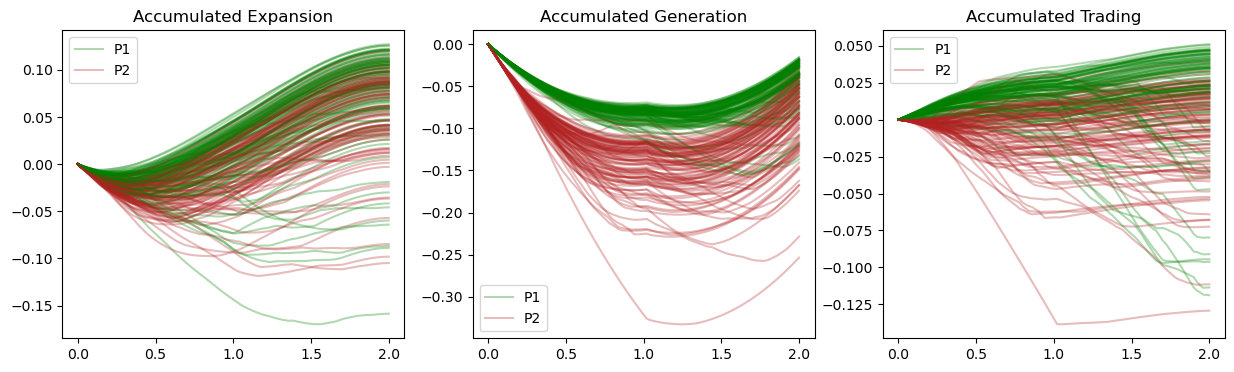
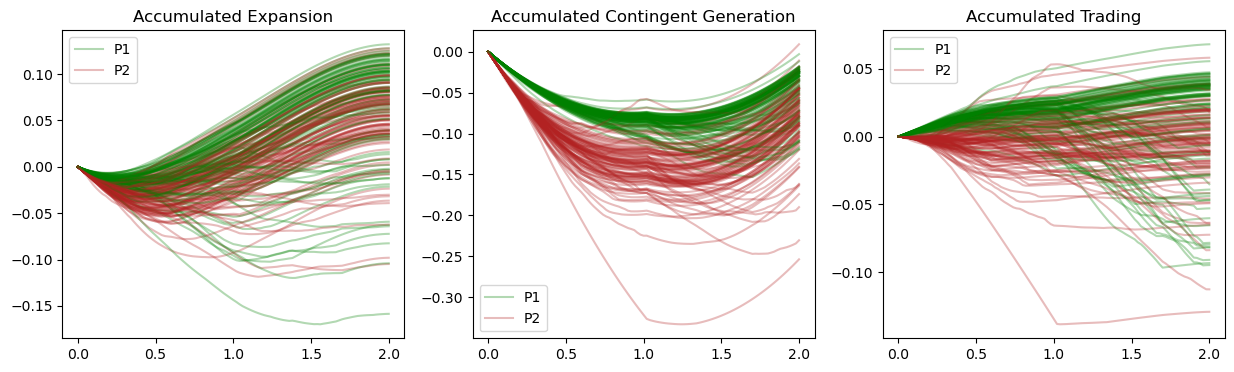
revised the utils.plot for invPenalty(JointOptim).

diff --git a/InvPenalty-MultiP/Joint_Optim_2Prdx1/utils.py b/InvPenalty-MultiP/Joint_Optim_2Prdx1/utils.py
@@ -615,69 +615,58 @@ class plot_results():
         if self.savefigs and self.to_path:
             plt.savefig(self.to_path.joinpath("Forward_Loss.png"),bbox_inches='tight')
 
-    def Inventory_And_Price(self,Histogram=True): #,single_sample=False):
-        plt.figure(figsize=(14,6))
-        plt.subplot(121)
+    def Inventory_And_Price(self, hline=False, Histogram=True): #,single_sample=False):
+        plt.figure(figsize=(6,6))
+        plt.subplot()
         plt.title("$Inventory(X_t)$")
         for i in range(self.number_of_paths):
           ax1=plt.plot(self.t[:self.NT1+1],self.pop1_plot['inventory'][i][:self.NT1+1], self.t[self.NT1+1:],self.pop1_plot['inventory'][i][self.NT1+1:],color="green", alpha=0.3)
           ax2=plt.plot(self.t[:self.NT1+1],self.pop2_plot['inventory'][i][:self.NT1+1], self.t[self.NT1+1:],self.pop2_plot['inventory'][i][self.NT1+1:],color="firebrick", alpha=0.3)
         plt.legend({'P1':ax1,'P2':ax2})
+        if hline==True:
+          plt.axhline(y=self.K, color='black', linestyle='--', label='Quota')
+        if self.savefigs and self.to_path:
+           plt.savefig(self.to_path.joinpath("Inventory.png"),bbox_inches='tight')
+        
 
-        plt.subplot(122)
+        plt.figure(figsize=(6,6))
+        plt.subplot()
         plt.title("$Price(S_t)$")
         plt.plot(self.t, self.pop1_plot['price'],color='darkgrey')
         # plt.ylim(-0.1,1.5)
         if self.savefigs and self.to_path:
-           plt.savefig(self.to_path.joinpath("Inventory-Price.png"),bbox_inches='tight')
+           plt.savefig(self.to_path.joinpath("Price.png"),bbox_inches='tight')
 
         if Histogram==True:
           x1_t1=self.pop1_path_dict['inventory'][:,self.NT1]
           x2_t1=self.pop2_path_dict['inventory'][:,self.NT1]
           x1_t2=self.pop1_path_dict['inventory'][:,self.NT2]
           x2_t2=self.pop2_path_dict['inventory'][:,self.NT2]
-          ## -------------------------------- Population 1 -------------------------------- ##
+          ## -------------------------------- Terminal Distribution -------------------------------- ##
           plt.figure(figsize=(12,5))
-          plt.suptitle("Inventory @ Delivery - P1")
+          plt.suptitle("Inventory @ Delivery")
 
           plt.subplot(121)
-          plt.title("Distribution of $X_{T_1}^{(1)}$")
-          sns.histplot(data=x1_t1, bins=100,stat='count',alpha=0.6,color= 'green')
+          plt.title("Distribution of $X_{T_1}$")
+          sns.histplot(data=x1_t1, bins=100,stat='count',alpha=0.3,color= 'green')
           sns.kdeplot(x1_t1, color="green",label='P1')
-          plt.xlabel("$X_{T_1}^{(1)}$")
-          plt.ylabel("Count")
-          plt.legend()
-
-          plt.subplot(122)
-          plt.title("Distribution of $X_{T_2}^{(1)}$")
-          sns.histplot(data=x1_t2, bins=100,stat='count',alpha=0.6,color= 'green')
-          sns.kdeplot(x1_t2, color="green",label='P1')
-          plt.xlabel("$X_{T_2}^{(1)}$")
-          plt.ylabel("Count")
-          plt.legend()
-          if self.savefigs and self.to_path:
-            plt.savefig(self.to_path.joinpath("Inventory-Distribution-pop1.png"),bbox_inches='tight')
-          ## -------------------------------- Population 2 -------------------------------- ##
-          plt.figure(figsize=(12,5))
-          plt.suptitle("Inventory @ Delivery - P2")
-
-          plt.subplot(121)
-          plt.title("Distribution of $X_{T_1}^{(2)}$")
-          sns.histplot(data=x2_t1, bins=100,stat='count',alpha=0.6,color= 'firebrick')
+          sns.histplot(data=x2_t1, bins=100,stat='count',alpha=0.2,color= 'firebrick')
           sns.kdeplot(x2_t1, color="firebrick",label='P2')
-          plt.xlabel("$X_{T_1}^{(2)}$")
+          plt.xlabel("$X_{T_1}$")
           plt.ylabel("Count")
           plt.legend()
 
           plt.subplot(122)
-          plt.title("Distribution of $X_{T_2}^{(2)}$")
-          sns.histplot(data=x2_t2, bins=100,stat='count',alpha=0.6,color= 'firebrick')
+          plt.title("Distribution of $X_{T_2}$")
+          sns.histplot(data=x1_t2, bins=100,stat='count',alpha=0.3,color= 'green')
+          sns.kdeplot(x1_t2, color="green",label='P1')
+          sns.histplot(data=x2_t2, bins=100,stat='count',alpha=0.2,color= 'firebrick')
           sns.kdeplot(x2_t2, color="firebrick",label='P2')
-          plt.xlabel("$X_{T_2}^{(2)}$")
+          plt.xlabel("$X_{T_2}$")
           plt.ylabel("Count")
           plt.legend()
           if self.savefigs and self.to_path:
-            plt.savefig(self.to_path.joinpath("Inventory-Distribution-pop2.png"),bbox_inches='tight')
+            plt.savefig(self.to_path.joinpath("Inventory-Distribution.png"),bbox_inches='tight')
 
     def Decomposition_Inventory(self, cumulative=True, base_rate=False):
         ## [0,NT1] --> init NT1 --> [NT1+1,NT2]
@@ -699,7 +688,7 @@ class plot_results():
         plt.legend({'P1':ax1,'P2':ax2})
 
         plt.subplot(132 if base_rate==False else 143)
-        plt.title("Generation Rate")
+        plt.title("Contingent Generation Rate")
         for i in range(self.number_of_paths):
           ax1=plt.plot(self.t,self.pop1_plot['generation'][i], color="green", alpha=0.3)
           ax2=plt.plot(self.t,self.pop2_plot['generation'][i], color="firebrick", alpha=0.3)
@@ -734,7 +723,7 @@ class plot_results():
             plt.legend({'P1':ax1,'P2':ax2})
 
             plt.subplot(132 if base_rate==False else 143)
-            plt.title("Accumulated Generation")
+            plt.title("Accumulated Contingent Generation")
             for i in range(self.number_of_paths):
               ax1=plt.plot(self.t,self.pop1_plot['cum_generation'][i], color="green", alpha=0.3)
               ax2=plt.plot(self.t,self.pop2_plot['cum_generation'][i], color="firebrick", alpha=0.3)
